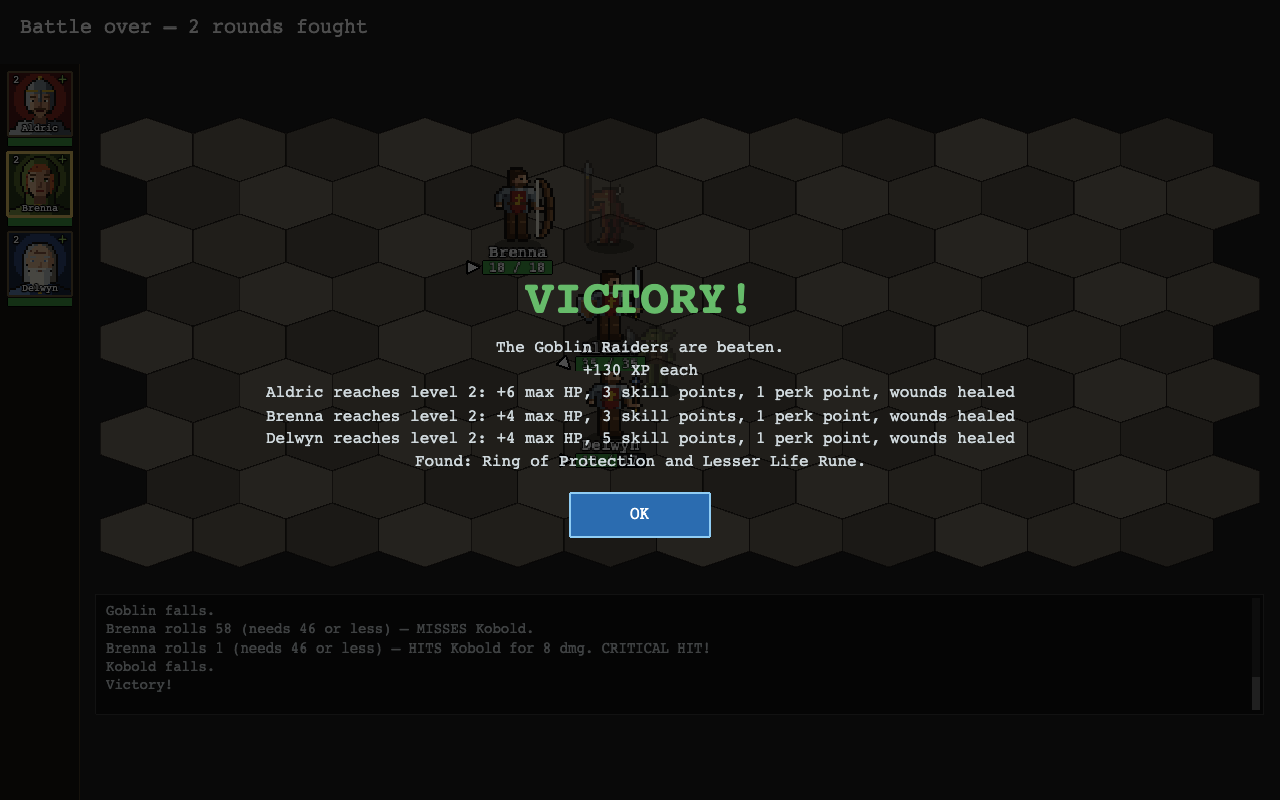
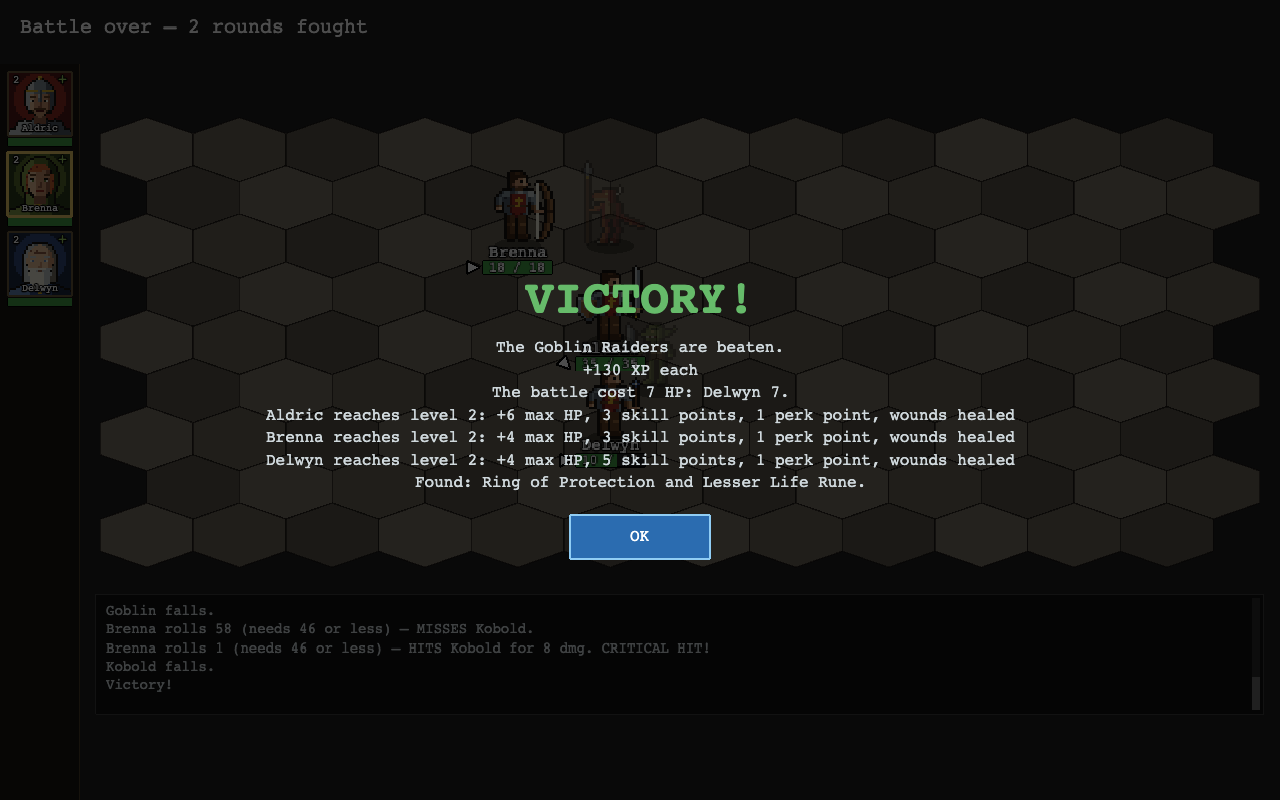
Battle cost: the victory screen says what the battle cost in HP (step 01)

Changed region(s): [[0.2188, 0.4688, 0.7812, 0.7188], [0.375, 0.2188, 0.4375, 0.2812]]

diff --git a/e2e/battle.test.ts b/e2e/battle.test.ts
@@ -13,6 +13,15 @@ import { RAIDERS, battleHexOnScreen, useGames, type Game } from './driver.ts'
 /** The first party member's unit, which is the one selected as a battle opens. */
 const hero = (battle: BattleProbe) => battle.state.units.find((u) => u.id === 'hero_1')!
 
+/** The hit points the party lost over a finished battle, as the result screen's cost line should say: by hero, from the log's start to the final units. */
+function lostInBattle(over: BattleProbe): number {
+  const start = over.log[0]
+  if (start.type !== 'battle_start') throw new Error('log does not start a battle')
+  return start.units
+    .filter((u) => u.side === 'player')
+    .reduce((sum, u) => sum + Math.max(0, u.hp - over.state.units.find((f) => f.id === u.id)!.hp), 0)
+}
+
 /** Types a line at the debug console, opening it first, and closes it again. */
 async function debugCommand(game: Game, line: string): Promise<void> {
   await game.press('Shift+Backquote')
@@ -504,6 +513,7 @@ describe('a battle', () => {
     const over = await game.loseBattle()
     expect(over.state.winner).toBe('enemy')
     expect(over.result).toEqual(['The Second Company has fallen. Its baggage lies at the Goblin Raiders.'])
+    expect(over.result.some((line) => line.includes('cost'))).toBe(false)
     const saved = await game.page.evaluate(() => JSON.parse(localStorage.getItem('yomi.save.1')!))
     expect(saved.battle).toBeNull()
     expect(saved.game.parties.map((p: { id: string }) => p.id)).toEqual(['party_1'])
@@ -592,6 +602,14 @@ describe('auto-resolve on the battle screen', () => {
     const rounds = over.state.round - moved.state.round + 1
     expect(over.result[0]).toBe('The Goblin Raiders are beaten.')
     expect(over.result[1]).toBe(autoResolvedLine(rounds))
+    // The cost, from the log's start to the final hit points, stands after the experience and before any level.
+    const lost = lostInBattle(over)
+    expect(lost).toBeGreaterThan(0)
+    const costAt = over.result.findIndex((line) => line.startsWith('The battle cost'))
+    expect(over.result[costAt]).toMatch(new RegExp(`^The battle cost ${lost} HP: `))
+    expect(over.result[costAt - 1]).toMatch(/^\+\d+ XP/)
+    const firstLevel = over.result.findIndex((line) => line.includes('reaches level'))
+    if (firstLevel >= 0) expect(costAt).toBeLessThan(firstLevel)
     for (const button of [over.buttons.auto, over.buttons.attack, over.buttons.endTurn]) expect(button.visible).toBe(false)
     // Nothing is played back, but the end sounds as a played battle's: the victory sting, then the level-up's.
     const heard = () => game.page.evaluate(() => window.__yomi!.audioLog().map((entry) => entry.cue))
@@ -664,6 +682,18 @@ describe('auto-resolve on the battle screen', () => {
     expect(enemy.autoLabel).toBe('Auto (…)')
     await game.waitFor('Battle', (b) => b.playerControl && b.state.round === 2)
     await game.waitFor('Battle', (b) => b.forecast !== null)
+  })
+
+  it('keeps the result screen’s button on screen at the least window size, cost line and all (A6)', async () => {
+    const game = await games.open()
+    await game.resize(840, 560)
+    const start = await game.enterBattle()
+    await game.click(battleHexOnScreen(start, offsetToHex(5, 4)))
+    const moved = await game.awaitTurn()
+    await game.click(moved.buttons.auto)
+    const over = await game.waitFor('Battle', (b) => b.buttons.result.visible)
+    expect(over.result.some((line) => line.startsWith('The battle cost'))).toBe(true)
+    expect(over.buttons.result.y + 30).toBeLessThanOrEqual(560)
   })
 
   it('wraps the estimate’s hint inside the header at the least window size', async () => {

diff --git a/src/scenes/battleCost.test.ts b/src/scenes/battleCost.test.ts
@@ -1,0 +1,72 @@
+import { describe, expect, it } from 'vitest'
+import type { BattleEvent, UnitSnapshot } from '../engine/battleEngine.ts'
+import { battleCost, costLines } from './battleCost.ts'
+
+const unit = (id: string, side: 'player' | 'enemy', hp: number): UnitSnapshot => ({ id, side, hp }) as UnitSnapshot
+const start = (units: UnitSnapshot[]): BattleEvent[] => [{ type: 'battle_start', units } as unknown as BattleEvent]
+const NAMES = { a: 'Aiko', b: 'Ren', c: 'Mia', g: 'Goblin' }
+
+describe('battleCost', () => {
+  const log = start([unit('a', 'player', 30), unit('b', 'player', 30), unit('c', 'player', 20), unit('g', 'enemy', 50)])
+
+  it('lists what each hero lost, most first, ignoring foes (A1)', () => {
+    const end = [unit('a', 'player', 18), unit('b', 'player', 30), unit('c', 'player', 12), unit('g', 'enemy', 0)]
+    expect(battleCost(log, end, NAMES)).toEqual([
+      { id: 'a', name: 'Aiko', lost: 12 },
+      { id: 'c', name: 'Mia', lost: 8 },
+    ])
+  })
+
+  it('counts a fallen hero for the hit points they started with', () => {
+    const end = [unit('a', 'player', 0), unit('b', 'player', 29), unit('c', 'player', 20)]
+    expect(battleCost(log, end, NAMES).map((c) => c.lost)).toEqual([30, 1])
+  })
+
+  it('keeps the party order among equal losses', () => {
+    const end = [unit('a', 'player', 25), unit('b', 'player', 25), unit('c', 'player', 15)]
+    expect(battleCost(log, end, NAMES).map((c) => c.id)).toEqual(['a', 'b', 'c'])
+  })
+
+  it('drops a hero who ends above their start', () => {
+    const end = [unit('a', 'player', 35), unit('b', 'player', 20), unit('c', 'player', 20)]
+    expect(battleCost(log, end, NAMES).map((c) => c.id)).toEqual(['b'])
+  })
+
+  it('is empty when nothing was lost, or the log does not start a battle (A2)', () => {
+    expect(battleCost(log, [unit('a', 'player', 30), unit('b', 'player', 30), unit('c', 'player', 20)], NAMES)).toEqual([])
+    expect(battleCost([], [], NAMES)).toEqual([])
+  })
+})
+
+describe('costLines', () => {
+  it('is empty for no cost (A2)', () => expect(costLines([])).toEqual([]))
+
+  it('says the total and who lost it', () => {
+    const costs = [
+      { id: 'a', name: 'Aiko', lost: 12 },
+      { id: 'b', name: 'Ren', lost: 8 },
+      { id: 'c', name: 'Mia', lost: 3 },
+    ]
+    expect(costLines(costs)).toEqual(['The battle cost 23 HP: Aiko 12, Ren 8, Mia 3.'])
+    expect(costLines([{ id: 'a', name: 'Aiko', lost: 1 }])).toEqual(['The battle cost 1 HP: Aiko 1.'])
+  })
+
+  it('wraps onto a second line, then collapses the rest to "and N more" (A3)', () => {
+    const costs = ['Alexandria Vanterpool', 'Bartholomew Featherstone', 'Cornelius Ravenscroft', 'Desdemona Whitlock', 'Evangeline Marchbanks', 'Ferdinand Oakenshield'].map((name, i) => ({ id: `h${i}`, name, lost: 100 - i }))
+    const lines = costLines(costs)
+    expect(lines.length).toBeLessThanOrEqual(2)
+    for (const line of lines) expect(line.length).toBeLessThanOrEqual(72)
+    expect(lines.join(' ')).toMatch(/^The battle cost 585 HP: .*and \d+ more\.$/)
+    const wrapped = costLines(costs.slice(0, 3))
+    expect(wrapped).toHaveLength(2)
+    expect(wrapped.join(' ')).toBe('The battle cost 297 HP: Alexandria Vanterpool 100, Bartholomew Featherstone 99, Cornelius Ravenscroft 98.')
+  })
+
+  it('honours a narrower width', () => {
+    const costs = [
+      { id: 'a', name: 'Aiko', lost: 12 },
+      { id: 'b', name: 'Ren', lost: 8 },
+    ]
+    for (const line of costLines(costs, 24)) expect(line.length).toBeLessThanOrEqual(24)
+  })
+})

diff --git a/src/scenes/battleCost.ts b/src/scenes/battleCost.ts
@@ -1,0 +1,64 @@
+import type { BattleEvent, UnitId, UnitSnapshot } from '../engine/battleEngine.ts'
+
+/** One hero's share of what a battle cost the party. */
+export interface HeroCost {
+  id: UnitId
+  name: string
+  lost: number
+}
+
+/** The widest a result line may be, in characters. */
+const DEFAULT_WIDTH = 72
+
+/** The most lines the cost sentence takes. */
+const MAX_LINES = 2
+
+/**
+ * What each hero lost, in hit points, over a battle: the hit points they started with (the log's `battle_start`)
+ * less the ones they end on. A hero who fell counts for all they started with; one who ends above their start costs
+ * nothing. Most lost first, ties in the party's order; only heroes who lost something are listed.
+ */
+export function battleCost(log: readonly BattleEvent[], finalUnits: readonly UnitSnapshot[], names: Record<UnitId, string>): HeroCost[] {
+  const first = log[0]
+  if (first?.type !== 'battle_start') return []
+  const costs: HeroCost[] = []
+  for (const start of first.units) {
+    if (start.side !== 'player') continue
+    const end = finalUnits.find((unit) => unit.id === start.id)
+    const lost = Math.max(0, start.hp - (end?.hp ?? 0))
+    if (lost > 0) costs.push({ id: start.id, name: names[start.id] ?? start.id, lost })
+  }
+  return costs.sort((a, b) => b.lost - a.lost)
+}
+
+/** Breaks `text` at spaces into lines of at most `width` characters (a longer word keeps a line of its own). */
+function wrap(text: string, width: number): string[] {
+  const lines: string[] = []
+  let line = ''
+  for (const word of text.split(' ')) {
+    if (line === '') line = word
+    else if (line.length + 1 + word.length <= width) line += ` ${word}`
+    else {
+      lines.push(line)
+      line = word
+    }
+  }
+  return line === '' ? lines : [...lines, line]
+}
+
+/**
+ * The result screen's words for the cost: "The battle cost 23 HP: Aiko 12, Ren 8, Mia 3.", over at most two lines of
+ * `width` characters; the heroes that do not fit collapse to "and N more". None for a battle that cost nothing.
+ */
+export function costLines(costs: readonly HeroCost[], width = DEFAULT_WIDTH): string[] {
+  if (costs.length === 0) return []
+  const total = costs.reduce((sum, cost) => sum + cost.lost, 0)
+  const head = `The battle cost ${total} HP`
+  for (let shown = costs.length; shown > 0; shown--) {
+    const parts = costs.slice(0, shown).map((cost) => `${cost.name} ${cost.lost}`)
+    if (shown < costs.length) parts.push(`and ${costs.length - shown} more`)
+    const lines = wrap(`${head}: ${parts.join(', ')}.`, width)
+    if (lines.length <= MAX_LINES) return lines
+  }
+  return wrap(`${head}.`, width)
+}

diff --git a/src/scenes/BattleScene.ts b/src/scenes/BattleScene.ts
@@ -88,6 +88,7 @@ import { PartyColumn } from './PartyColumn.ts'
 import { UnitFigure } from './UnitFigure.ts'
 import { CHEST_POINT, SPRITE_ATLAS, heroLook, pointFromAnchor, spriteAnim, spriteFrame } from './unitLook.ts'
 import { AUTO_DRAG_ON_LINE, DEFAULT_ENCOUNTER, autoResolvedLine, battleSeed, chooseBattle, foundNames } from './battleSetup.ts'
+import { battleCost, costLines } from './battleCost.ts'
 import { HEADER_BOTTOM, PARTY_PANEL_W, portraitClick, portraitRect } from './partyPanel.ts'
 import { showStory, type StoryAnchors } from './StoryScene.ts'
 import { storyFor, type StoryItem } from '../story/story.ts'
@@ -976,6 +977,14 @@ export class BattleScene extends Phaser.Scene {
     // so the button keeps below however many lines there are.
     this.resultText.setPosition(width / 2, height / 2 - 60)
     this.menuButton.setPosition(width / 2, this.resultText.y + this.resultText.height + 46)
+    // A long result lifts the whole block together, as far as the banner may go, to keep the button on screen.
+    const overflow = this.menuButton.y + 30 - (height - 16)
+    if (overflow > 0) {
+      const lift = Math.min(overflow, Math.max(0, this.bannerText.y - 40))
+      this.bannerText.y -= lift
+      this.resultText.y -= lift
+      this.menuButton.y -= lift
+    }
 
     const buttonTop = buttonY - 22
     const logBoxX = PARTY_PANEL_W + BOARD_MARGIN_X
@@ -2427,9 +2436,13 @@ export class BattleScene extends Phaser.Scene {
         if (member) member.mana = unit.mana
       }
     }
+    // What the battle cost is read before the reward heals anyone: the hit points lost between the start and the end.
+    const cost = playerWon ? costLines(battleCost(this.engine.getLog(), state.units, this.names)) : []
     // The fallen are dead: out of the party, their gear in the baggage.
     const reward = playerWon ? rewardVictory(this.expedition.members, this.xpReward, this.expedition.baggage) : null
+    // The cost follows the first line, the experience won.
     const xpLines = reward ? describeRewards(reward) : []
+    xpLines.splice(1, 0, ...cost)
     // A level gained is heard after the victory sting has played out.
     if (reward?.members.some(({ gain }) => gain.levelsGained > 0)) {
       const elapsed = this.endShownAt === null ? 0 : this.time.now - this.endShownAt

diff --git a/docs/reference/scenes.md b/docs/reference/scenes.md
@@ -128,6 +128,8 @@ Hovering a standing foe that has abilities or wards shows a small panel beside i
 
 The row of buttons under the log is Attack, Skills, End Turn and Auto, `BUTTON_SPACING` apart and centred right of the party's column (620 px of the 760 there at 840 wide). Auto is enabled exactly when End Turn is (`setPlayerControl`), hidden with the others when the battle ends, and has no key, so a stray key never commits a battle. Pressing it (`autoResolve`) closes the Skills list and any aiming and plays the rest of the battle at once from where it stands, mid-turn included (heroes that acted keep what they did): `playOut` (`autoPlay.ts`) with the heroes played by `AUTO_POLICY` on a stream seeded with the battle's seed plus two, made afresh on each press and never saved, and the foes by `ENEMY_POLICY` on the battle's own enemy stream. Nothing is played back: every event's line goes into the log, the board jumps to the final state (`showBoardAsItStands`, shared with a battle taken up from a save: units placed, the fallen faded, the revived stood up, ground marks, hit points, facing and statuses), and the final `battle_end` goes through `showEvent`, so its line, the sting and the theme's stop happen as in a played battle and the level-up sting times itself from it. `endBattle` then settles the battle unchanged, its result screen with "Auto-resolved in N rounds." (`autoResolvedLine`) as the second line, after "<Foes> are beaten." or the first defeat line. Nothing is saved during the run: the turn's save and the end's bracket it.
 
+A won battle's result screen carries a **cost line** (`battleCost.ts`), played, restored or auto-resolved alike: after the first experience line ("+N XP") and before the fallen and level lines, "The battle cost N HP: Aiko 12, Ren 8.". It is worked out in `endBattle` before `rewardVictory`, so the level-up healing does not hide it: each hero's hit points at the log's `battle_start` (`log[0]`, which survives `snapshot`/`restore`) less those at the end, net, so a hero who ends above their start costs nothing and is not listed; a hero who fell counts for all they started with, unmarked (the fallen line names them). HP only, no mana. Heroes most lost first, ties in party order; the sentence wraps at 72 characters over at most two lines, and heroes that do not fit collapse to "and N more". A defeat, or a win that cost nothing, has none. `layout()` lifts the banner, text and button together when a long result would push the button past the bottom edge (banner kept at y >= 40).
+
 Auto's label carries the estimate of auto-resolving from where the battle stands (`forecast.ts`): "Auto (…)" while it is worked out, then the AI's win chance, "Auto (90%)" (`forecastLabel(f, true)`; ">95%" and "<5%" at the ends). Hovering Auto puts the whole estimate in the hint line (`forecastHint`: the win chance, the chance a hero dies, the samples that drag on past the round limit, and that it is the AI's odds), in the hint's normal grey; moving off brings the turn's hint back. The estimate is a `Forecaster` of `FORECAST_SAMPLES` (40) sample battles played from a `snapshot()` of the engine on seeds of their own, worked in the scene's `update` in slices of at most `FORECAST_SLICE_MS` (10 ms) a frame, only while the player has control (a paused scene, under the character panel or the menu, works none). It is started in `setPlayerControl(true)` only when `battleForecastBase(log)` differs from the one in hand, so selecting a hero or aiming keeps it and every action restarts it, and dropped in `setPlayerControl(false)` (every action, End Turn, Auto, the battle's end) and on leaving the scene. It never steps the real engine or reads its streams, and pressing Auto neither waits for nor uses it; it is not saved, and is worked out again after a load. The probe gives the finished estimate as `forecast` (null otherwise) and the label as `autoLabel`.
 
 A battle still going after `AUTO_ROUND_LIMIT` (50) rounds, the press's round included (`autoLastRound`), is handed back: the log says "The battle drags on. It is yours to finish." (`AUTO_DRAG_ON_LINE`) and `continueBattle` goes on as after any action, the enemy's phase played and animated as normal.
@@ -168,6 +170,7 @@ Pure helpers (no runtime Phaser import, tested in the `domain` project):
 - `battleEffects.ts`: how a blow, a shot, each spell and each area ability look and when they land (`attackLook`, `SPELL_LOOKS`, `ABILITY_LOOKS`, `strikeFlash`, `impactMs`, which the schedule holds later events for and the sounds time their outcome by); `MOVE_STEP_MS`, the time a unit takes to walk a hex, which the footsteps keep to; the floating text of an attack's on-hit damage (`bonusText`), of a `restore` (`restoreFloats`: "+3" green, "+2 mana" blue) and of a blow (`attackerNotes`: Ambush, "+N AP"; `defenderNotes`: Deathblow); and `changesStatusMarks`, which events redraw the nameplates' status letters (a `restore` and a `status_laid` among them).
 - `boardGeometry.ts`: hex ↔ screen for a `BoardLayout`; the battlefield's is squashed to look like a floor, the world map's is flat with smaller hexes.
 - `attackPlan.ts`: what clicking a foe does, and the hint when it does nothing.
+- `battleCost.ts`: what a won battle cost each hero in hit points (`battleCost`, from the log's start and the final units) and the result screen's sentence for it (`costLines`).
 - `battleSetup.ts`: which encounter and threat a `Battle` start asks for (a monster location's, or else the data's); the seed a battle's log started with, which seeds the runes a win finds; the names the victory screen's "Found:" line lists; and auto-resolve's result line (`autoResolvedLine`) and hand-back line (`AUTO_DRAG_ON_LINE`).
 - `storyAudio.ts`: which line a cutscene beat speaks, its cache key and files, the lines of a cutscene to load, the delay and fade, and the duck constants, which are `soundPlayer.ts`'s.
 - `scrollingLog.ts`: the battle log.

diff --git a/docs/implementation-plans/battle-cost/01-battle-cost.md b/docs/implementation-plans/battle-cost/01-battle-cost.md
@@ -56,3 +56,11 @@ Decisions: HP only, no mana. A hero who fell counts for the HP they started with
 - [ ] One commit on `main`; this step's status and hash set in [index.md](index.md).
 
 ## Execution record
+
+Step 01, engineer run.
+
+- Red/green: `src/scenes/battleCost.test.ts` (9 tests) written first; one test of mine failed first on names too short to overflow (test fixed, not code). `npx vitest run src/scenes/battleCost.test.ts`: 9 passed.
+- `endBattle`: cost lines computed before `rewardVictory` (only on a win) and spliced into `xpLines` at index 1. `layout()` lifts banner, result text and button together when `menuButton.y + 30 > height - 16`, banner kept at y >= 40.
+- e2e (`e2e/battle.test.ts`): auto-resolve test now asserts the cost line (N equals the sum computed from `over.log[0]` and `over.state.units`, N > 0 since the battle is seeded, after the `+N XP` line, before any level line); new A6 test at 840x560 auto-resolves a win and asserts the OK button's bottom (y + 30) is within 560 (a full party was not arranged: the driver's party is 3 heroes; the largest it can); the defeat test asserts no line contains `cost`.
+- `npm test`: tsc clean, 96 files, 2319 tests passed. `npm run test:browser`: 12 files, 161 tests passed. `npm run manual:screenshots`: 7 passed; it rewrote 14 images, only `battle-victory.png` kept (the others differ by render noise and are unrelated), viewed and sensible (cost line "The battle cost 7 HP: Delwyn 7." after "+130 XP each").
+- Docs: manual sentence, `docs/reference/scenes.md` (cost-line paragraph and module entry), `src/scenes/CLAUDE.md` line. No `describeRewards`, engine, `LOG_SCHEMA_VERSION` or `SAVE_VERSION` change. `docs/features/battle-cost.md` did not exist or was unmodified, so nothing to carry.

diff --git a/docs/manual/README.md b/docs/manual/README.md
@@ -401,6 +401,8 @@ While aiming, the pointer is crossed swords over a valid target of an attacking 
 
 You win when every foe has fallen. Every surviving hero earns the full experience reward. The lair disappears from the map, the land around it is cleansed, and its loot goes into the baggage. A lair may also yield a **rune**, which goes into the party's rune pouch: the victory screen names it, as in "Found: Lesser Ember Rune". Lairs of threat 1 to 3 give a Lesser rune half the time; from threat 4 every win gives one, sometimes of the second rank. The Salamander Pool favours Ember runes and the Spider Nest Venom.
 
+The victory screen also says what the battle cost the party in hit points, counted before any level-up healed anyone: "The battle cost 23 HP: Aiko 12, Ren 8, Mia 3.". Heroes are listed most lost first, and a hero who fell counts for the hit points they started with. A battle that cost nothing has no such line.
+
 An auto-resolved battle's rewards and losses are the same as a played one's: experience, loot, runes, the cleared lair and any heroes who fall. No confirmation is asked.
 
 **Death is permanent.** A hero who fell in a battle you won is gone for good. Their gear goes to the baggage, and the party fights on smaller until the guild hall fills the place. If **every** hero in the battle falls, that party is wiped out: its heroes are dead, and everything they wore and carried, with the party's baggage, lies at the lair as its loot, for whoever beats it. The game goes on while you have a hero anywhere, in another party or in the guild hall's reserves; if the last party falls with reserves left, they form a new party at the encampment at once. Only when no hero is left is the game over and its save deleted.

diff --git a/src/scenes/CLAUDE.md b/src/scenes/CLAUDE.md
@@ -51,6 +51,7 @@ Pure (no runtime Phaser import):
 - `battleEffects.ts`: how blows, shots, spells and area abilities look and when they land; floating text; which events redraw status letters.
 - `boardGeometry.ts`: hex ↔ screen for the battlefield and the world map.
 - `attackPlan.ts`: what clicking a foe does, and the hint when it does nothing.
+- `battleCost.ts`: the victory screen's cost line: hit points lost per hero, net, measured before the reward heals.
 - `battleSetup.ts`: which encounter and threat a `Battle` asks for, the log's seed, the "Found:" line, auto-resolve's lines.
 - `storyAudio.ts`: which line a cutscene beat speaks, its files, delay, fade and duck.
 - `scrollingLog.ts`: the battle log.
